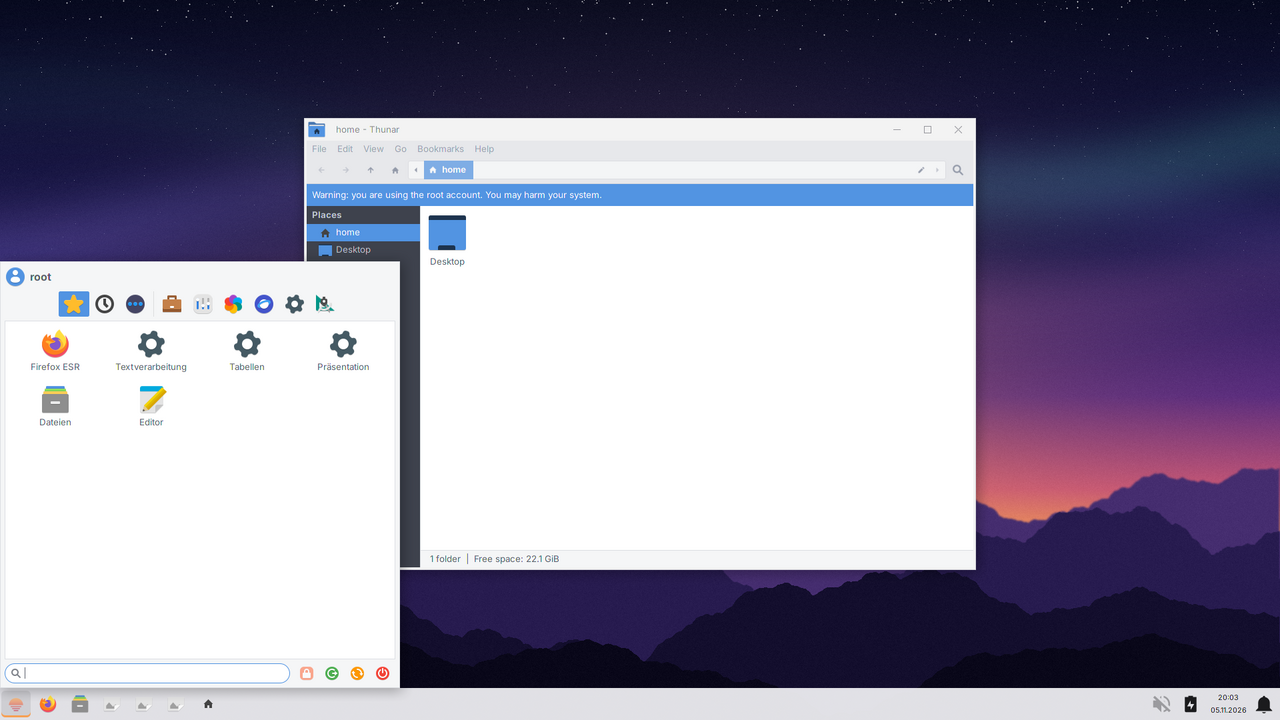
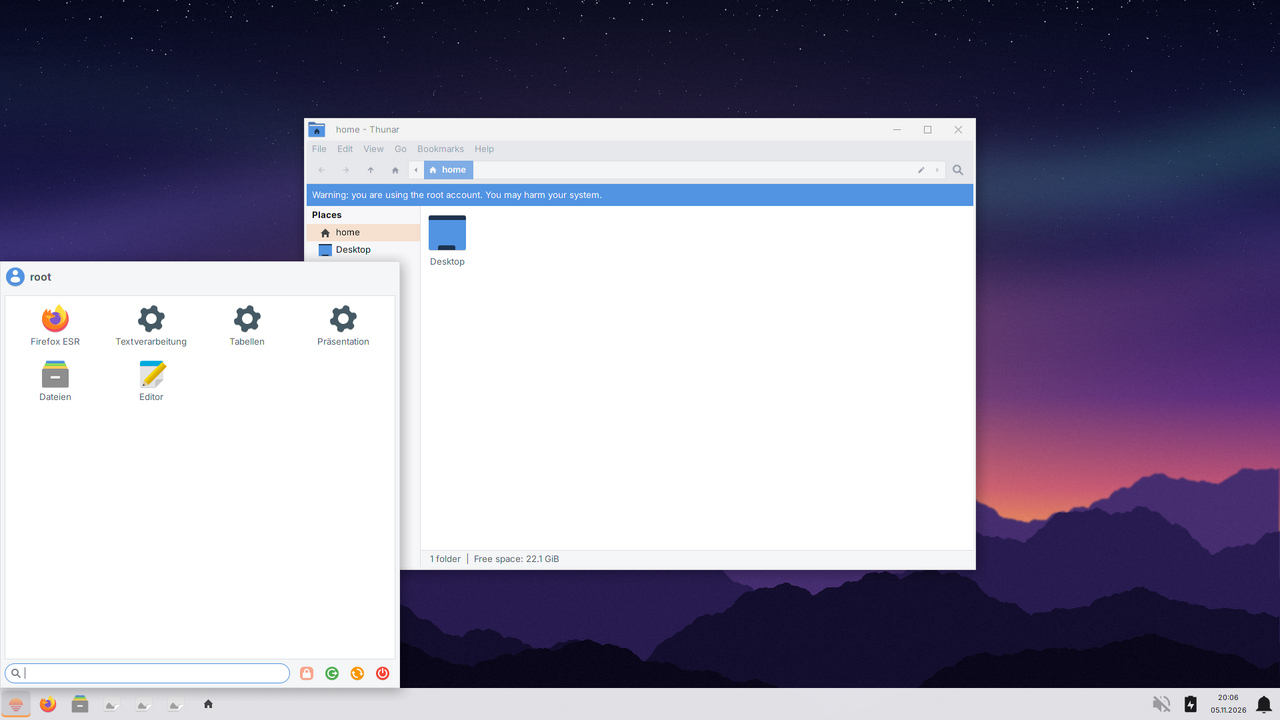
Start menu: hide category bar; agent pins catalog apps to the start menu

Changed region(s): [[0.0312, 0.3972, 0.2812, 0.6111], [0.2188, 0.275, 0.3438, 0.7944]]

diff --git a/image/config/includes.chroot/usr/share/valolinux/gtk.css b/image/config/includes.chroot/usr/share/valolinux/gtk.css
@@ -34,3 +34,12 @@ placessidebar, placessidebar list, placessidebar row {
   color: #1b1b1d;
 }
 .sidebar treeview.view header button { color: #6e6a8a; background: transparent; }
+
+/* Start menu: no category bar (pinned apps + search are enough, like Windows) */
+#whiskermenu-window .category-button,
+#whiskermenu-window button.category-button {
+  min-width: 0; min-height: 0; padding: 0; margin: 0; border: 0;
+  background: none; box-shadow: none; opacity: 0;
+  font-size: 1px;
+}
+#whiskermenu-window separator { min-height: 0; min-width: 0; margin: 0; background: none; }

diff --git a/agent/src/apply.rs b/agent/src/apply.rs
@@ -81,6 +81,7 @@ pub fn apply_with(p: &mut Platform, m: &Manifest, state: &mut Applied, files: &D
     step("Hintergrund", wallpaper(p, s, files));
     step("Admin-Konto", admin_account(p, m, state));
     step("Apps", apps(p, m, state));
+    step("Startmenü", start_menu(p, m));
     step("Identität", identity(p, m));
     if messages.is_empty() {
         messages.push("keine Änderungen nötig".into());
@@ -431,6 +432,47 @@ pub fn apps(p: &mut Platform, m: &Manifest, state: &mut Applied) -> Result<Vec<S
     if errors.is_empty() { Ok(out) } else { Err(errors.join("; ")) }
 }
 
+pub const WHISKER_RC: &str = "/etc/xdg/xfce4/panel/whiskermenu-2.rc";
+/// Always pinned in the start menu (first). Keep in sync with image/.../whiskermenu-2.rc.
+const BASE_FAVORITES: &[&str] = &[
+    "firefox-esr.desktop",
+    "ai.storyteller.wordcraft.desktop",
+    "ai.storyteller.gridcraft.desktop",
+    "ai.storyteller.deckcraft.desktop",
+    "thunar.desktop",
+    "org.xfce.thunar.desktop",
+    "org.xfce.mousepad.desktop",
+    "org.xfce.ristretto.desktop",
+    "org.xfce.screenshooter.desktop",
+    "xfce4-screenshooter.desktop",
+];
+
+/// Pin the catalog apps of this device in the start menu (after the base apps).
+/// Flatpak exports each app as `<ref>.desktop`.
+pub fn start_menu(p: &mut Platform, m: &Manifest) -> Result<Vec<String>, String> {
+    let Some(current) = p.read(WHISKER_RC) else { return Ok(vec![]) };
+    let mut favs: Vec<String> = BASE_FAVORITES.iter().map(|s| s.to_string()).collect();
+    favs.extend(m.apps.iter().filter(|a| valid_ref(&a.flatpak_ref)).map(|a| format!("{}.desktop", a.flatpak_ref)));
+    let line = format!("favorites={}", favs.join(","));
+    let mut found = false;
+    let mut out: Vec<String> = current
+        .lines()
+        .map(|l| {
+            if l.starts_with("favorites=") {
+                found = true;
+                line.clone()
+            } else {
+                l.to_string()
+            }
+        })
+        .collect();
+    if !found {
+        out.insert(0, line);
+    }
+    let c = p.write(WHISKER_RC, &(out.join("\n") + "\n"), 0o644)?;
+    Ok(changed(c, &format!("{} Apps angeheftet", m.apps.len())))
+}
+
 /// Device name as hostname (lowercase, a-z0-9-).
 pub fn identity(p: &mut Platform, m: &Manifest) -> Result<Vec<String>, String> {
     let host: String = m
@@ -527,6 +569,24 @@ mod tests {
         apply(&mut p3, &m3, &mut st);
         assert!(p3.log.iter().any(|l| l.contains("flatpak uninstall") && l.contains("org.gimp.GIMP")));
         assert!(st.managed_apps.is_empty());
+    }
+
+    #[test]
+    fn start_menu_pins_catalog_apps() {
+        let dir = tempfile::tempdir().unwrap();
+        let rc = dir.path().join(WHISKER_RC.trim_start_matches('/'));
+        std::fs::create_dir_all(rc.parent().unwrap()).unwrap();
+        std::fs::write(&rc, "favorites=old.desktop\nview-mode=0\n").unwrap();
+        let mut p = Platform::new(dir.path(), true);
+        let m = manifest(Settings::default(), vec!["org.gimp.GIMP"]);
+        start_menu(&mut p, &m).unwrap();
+        let s = std::fs::read_to_string(&rc).unwrap();
+        assert!(s.starts_with("favorites=firefox-esr.desktop,"));
+        assert!(s.contains(",org.gimp.GIMP.desktop\n"));
+        assert!(s.contains("view-mode=0"));
+        // no whisker config on the system: nothing to do
+        let empty = tempfile::tempdir().unwrap();
+        assert!(start_menu(&mut Platform::new(empty.path(), true), &m).unwrap().is_empty());
     }
 
     #[test]

diff --git a/docs/design.md b/docs/design.md
@@ -30,7 +30,7 @@ Alle Grafiken erzeugt `tools/make-branding.py` reproduzierbar (fester Zufallswer
 ## Desktop (XFCE, von Windows inspiriert)
 Ziel: Kinder kennen Windows, also soll sich alles vertraut anfühlen, ohne Windows zu kopieren.
 - Taskleiste unten, hell und leicht transparent, Startknopf und angeheftete Apps links, Uhr/Systembereich rechts; aktive App mit Amber-Strich.
-- Startmenü: Raster mit angehefteten Apps, Kategorien als Symbolleiste oben, Suche und Ein/Aus unten.
+- Startmenü: nur angeheftete Apps als Raster, Suche und Ein/Aus unten, keine Kategorien (alles Weitere über die Suche). Apps aus dem Katalog heftet der Agent automatisch an.
 - Vertraute Namen: Dateien, Editor, Fotos, Task-Manager, Bildschirmfoto, Firefox, Textverarbeitung, Tabellen, Präsentation (Hook `0200-valo-app-names`).
 - Desktop: Papierkorb, Rechtsklick-Menü (Ordner/Dokument erstellen). „Dateien“ mit heller Seitenleiste und Symbolansicht.
 - Fensterdesign „ValoLinux“ (`usr/share/themes/ValoLinux/xfwm4`, erzeugt mit `tools/make-xfwm-theme.py`): weisse Titelleiste, breite flache Knöpfe, Schliessen rot beim Darüberfahren.
